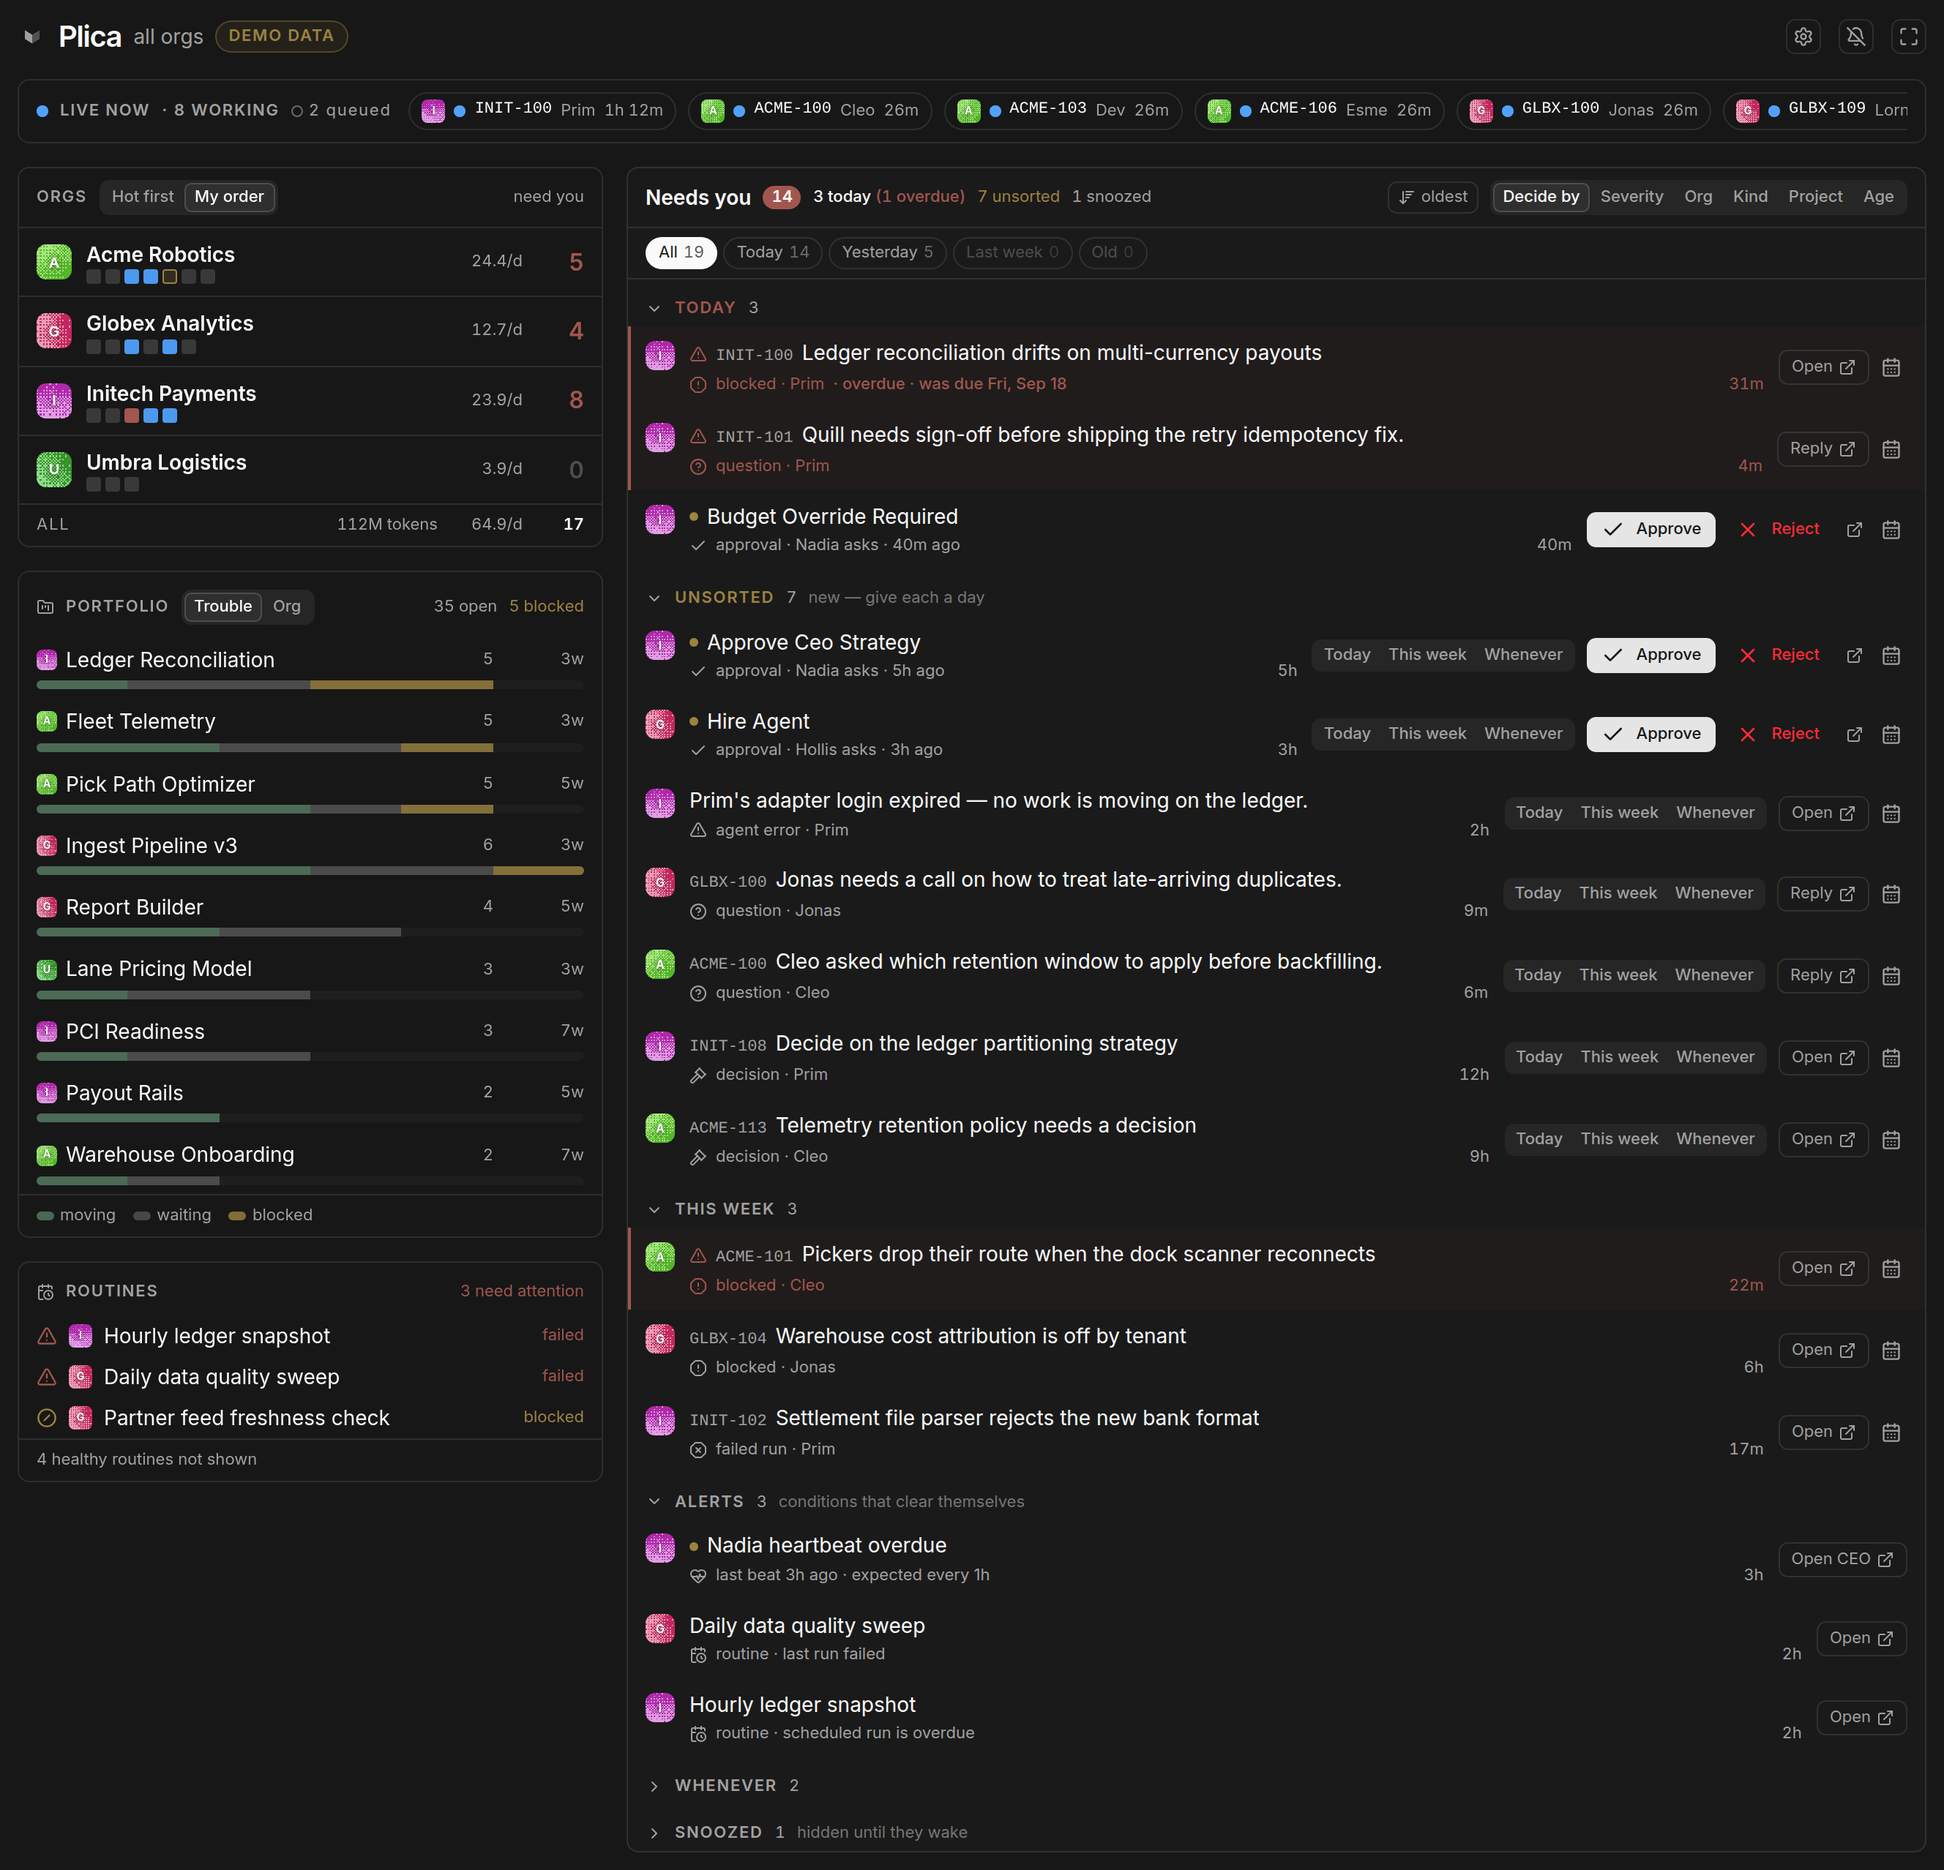
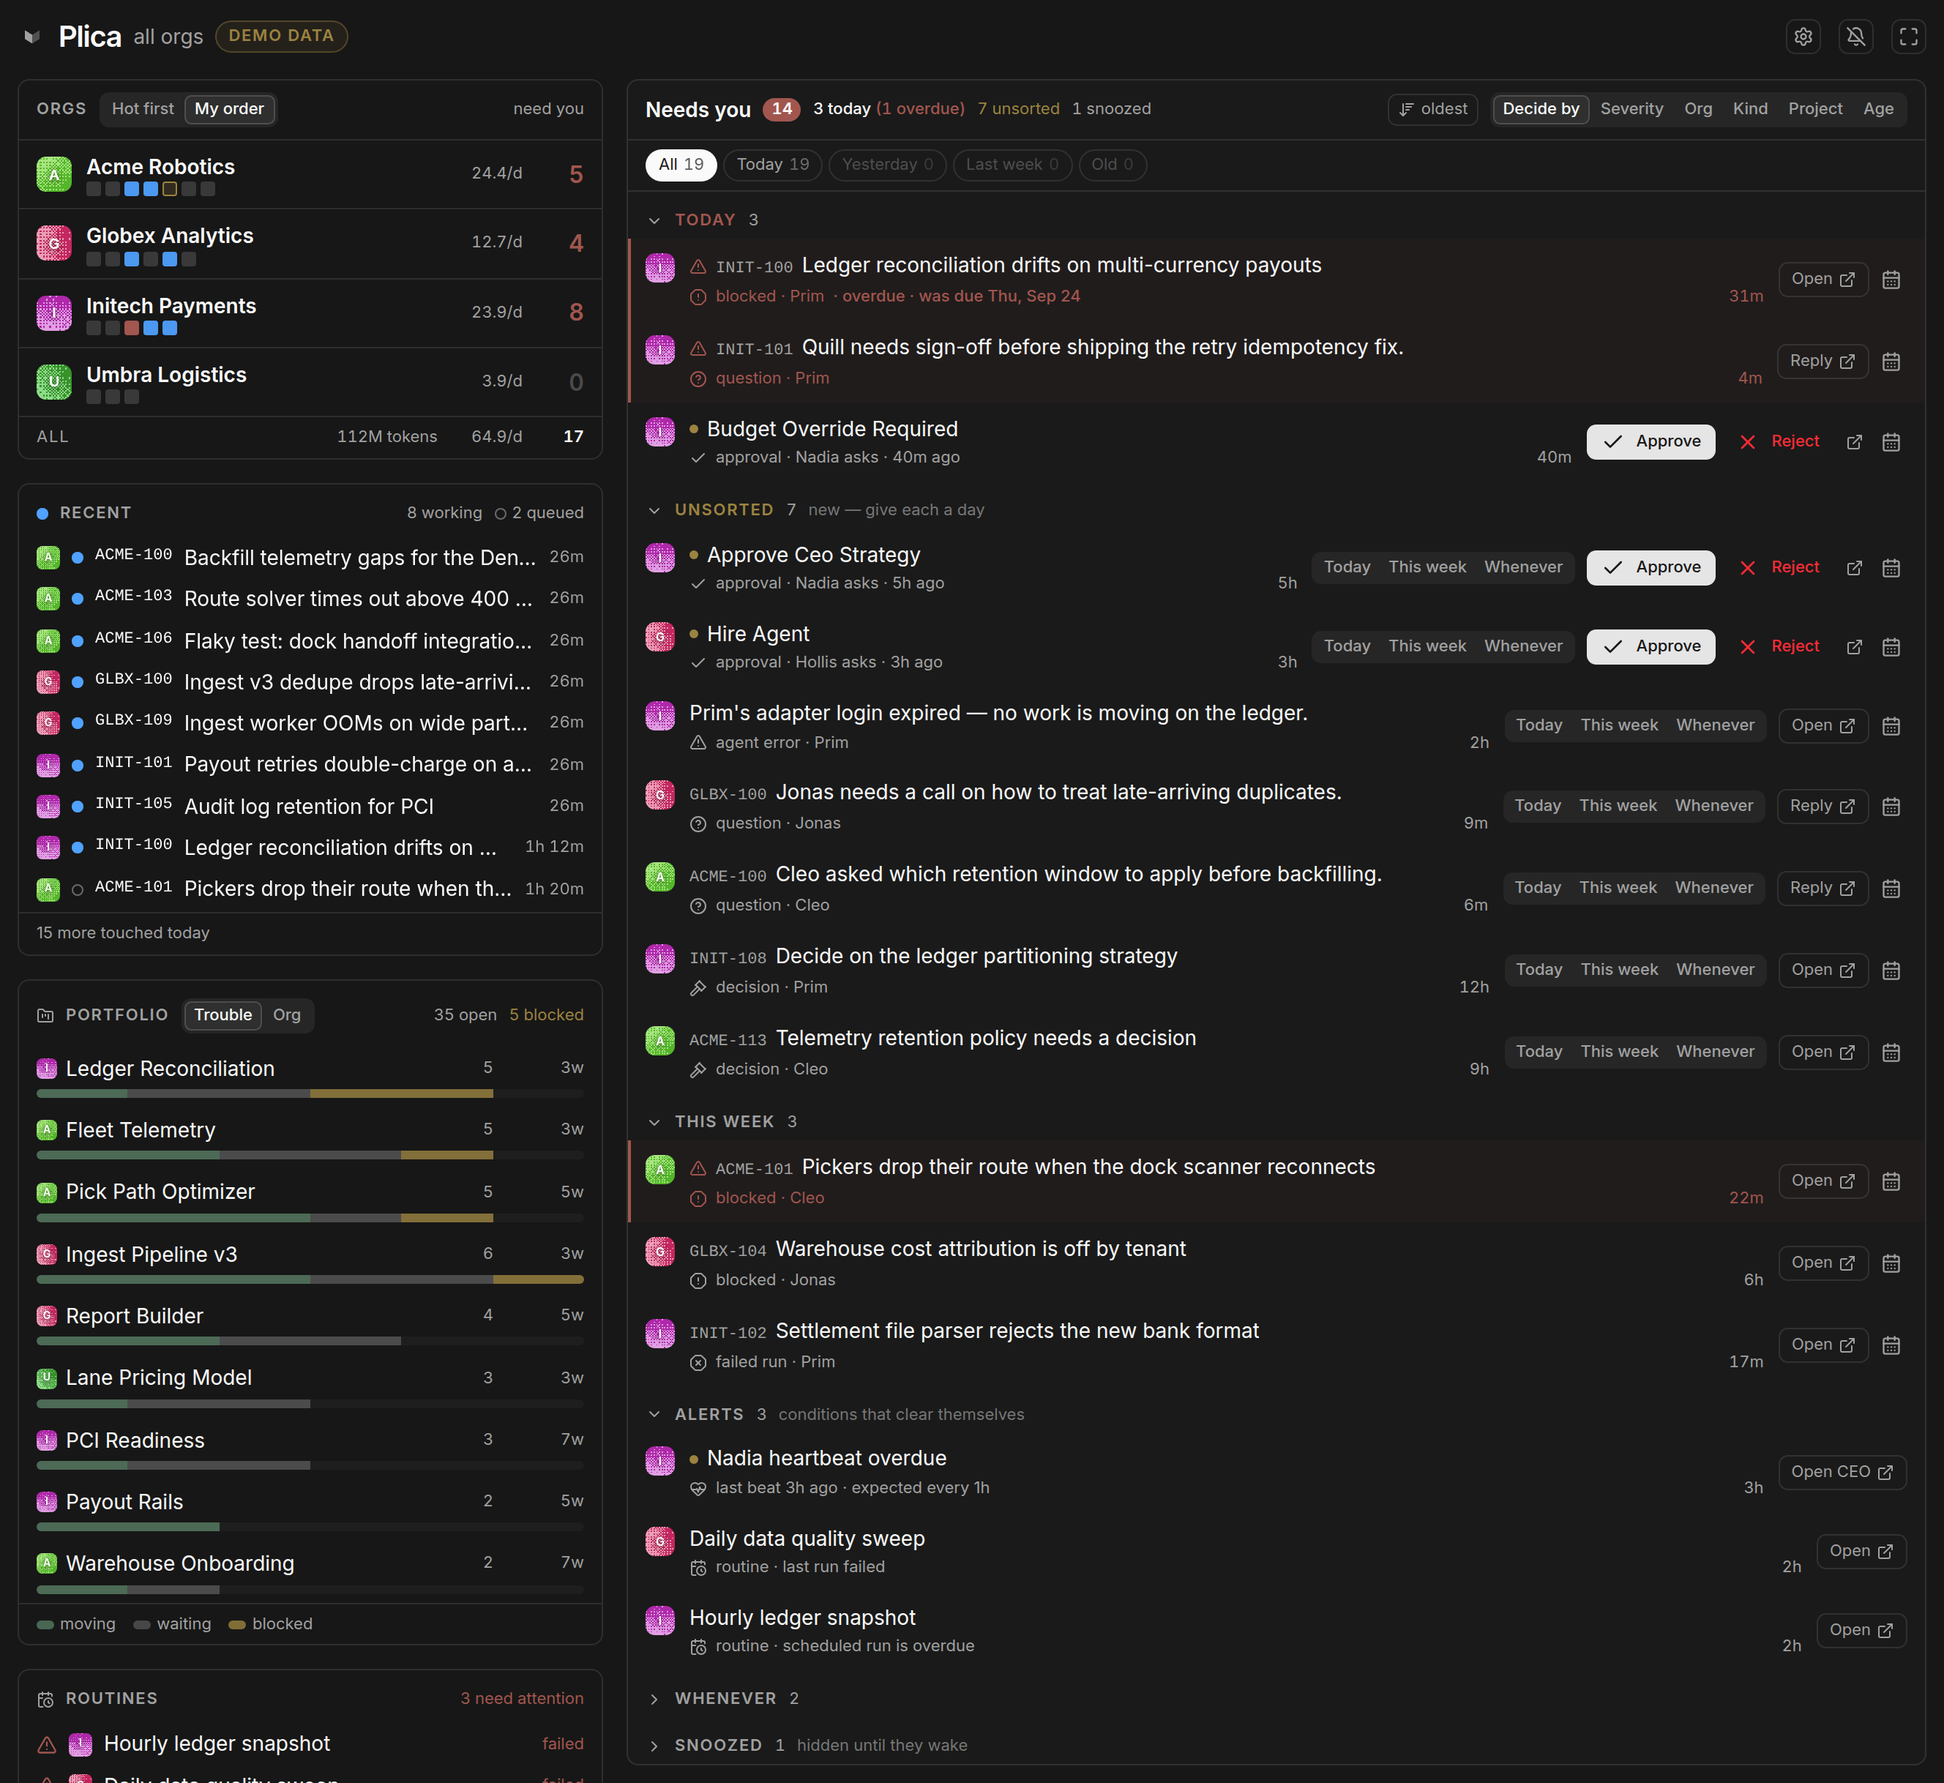
docs: shoot Recent, and put it back in the board guide
PLI-198 replaced the live strip with Recent in the left column, which left
docs/board.md describing a section it could not show and plica-page.png
still showing the strip.

Captured against a throwaway instance in demo mode, per
docs/screenshots/README.md. Only the two shots that actually changed are
here: board.png and portfolio.png re-render identically apart from text
antialiasing, so they are left alone.

phone.png is deliberately not refreshed. At 390px the rail now overflows
the viewport — [data-plica-companies] measures 531px wide against a 390px
window on main, and 358px on the commit before PLI-198 — so the capture
comes out clipped. Filed separately; the shot stays stale until the
overflow is fixed.

diff --git a/docs/board.md b/docs/board.md
@@ -67,6 +67,8 @@ amber at twenty minutes of silence.
 
 In the left column, under Orgs: one line per task, newest first.
 
+![Recent: one line per task, the live ones marked](screenshots/recent-tasks.png)
+
 Live rows come first — the ones an agent is on now, then the runs waiting for a
 runner — and behind them the tasks touched in the last day. A **pulsing dot**
 marks a row an agent is working, a **hollow ring** one that is queued, and
